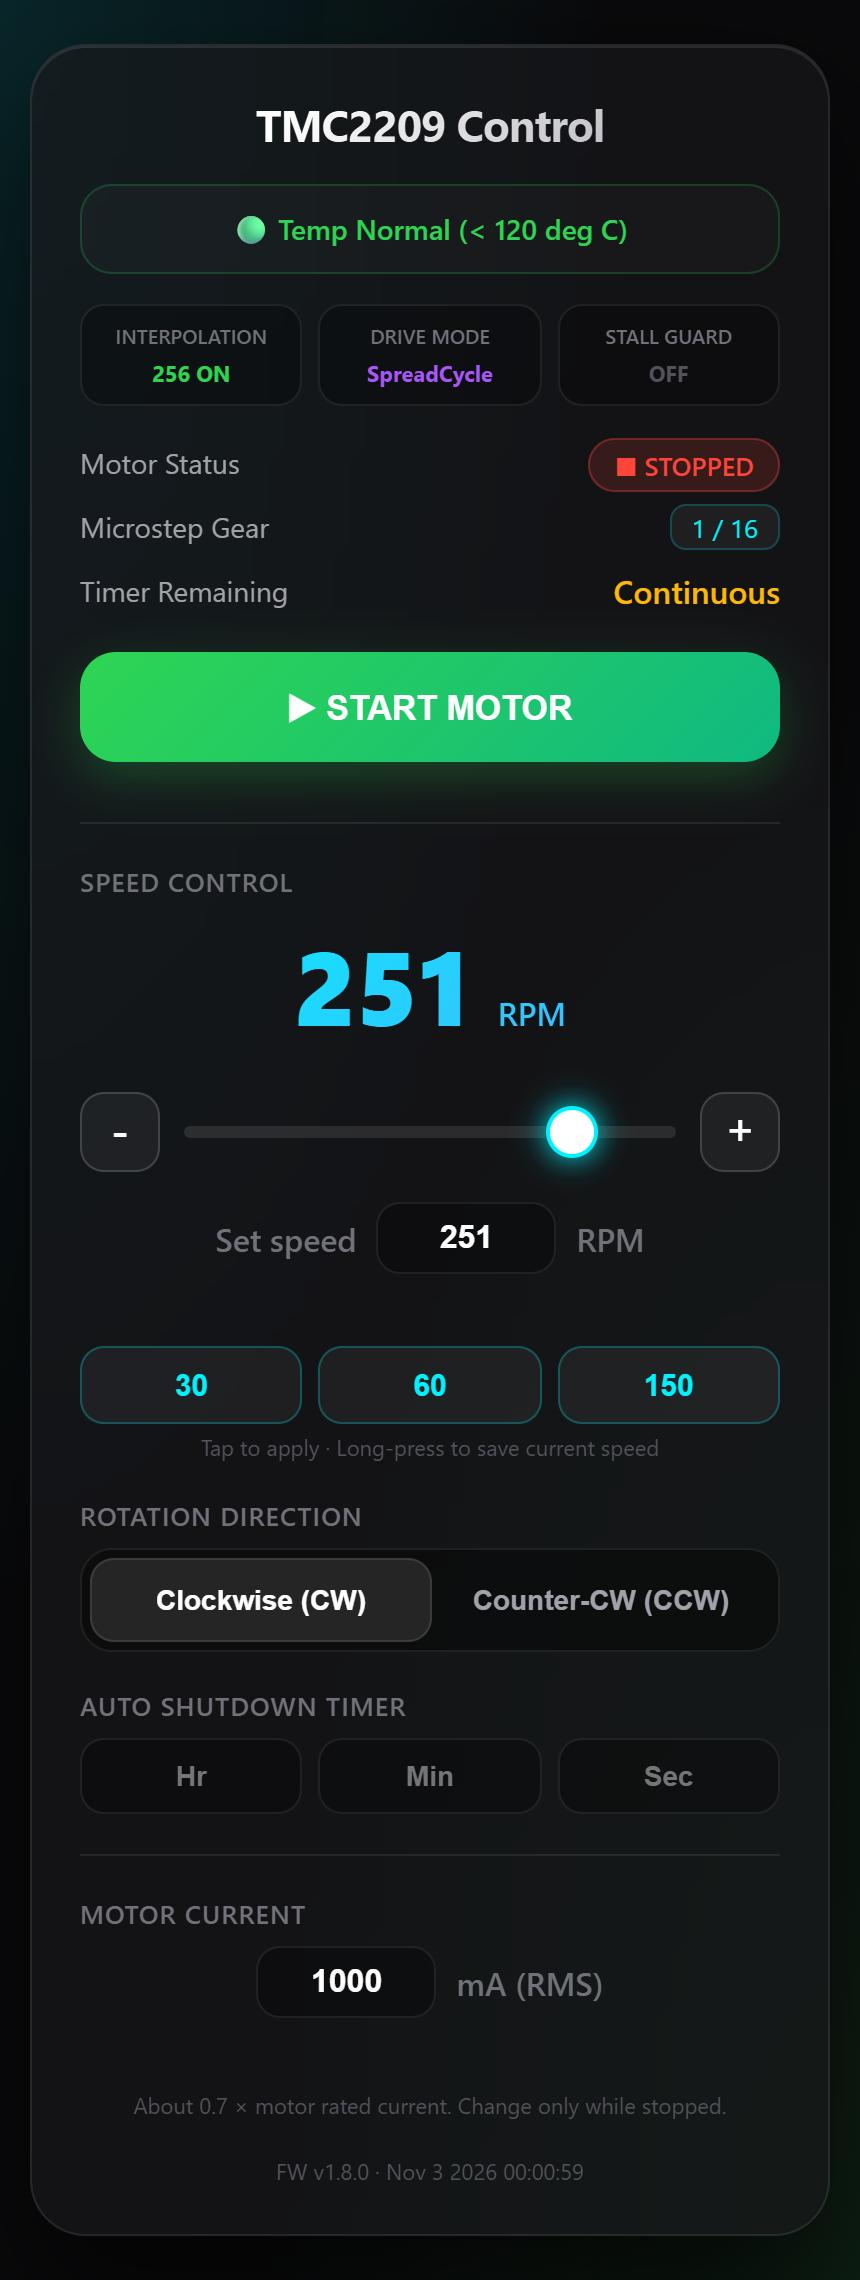
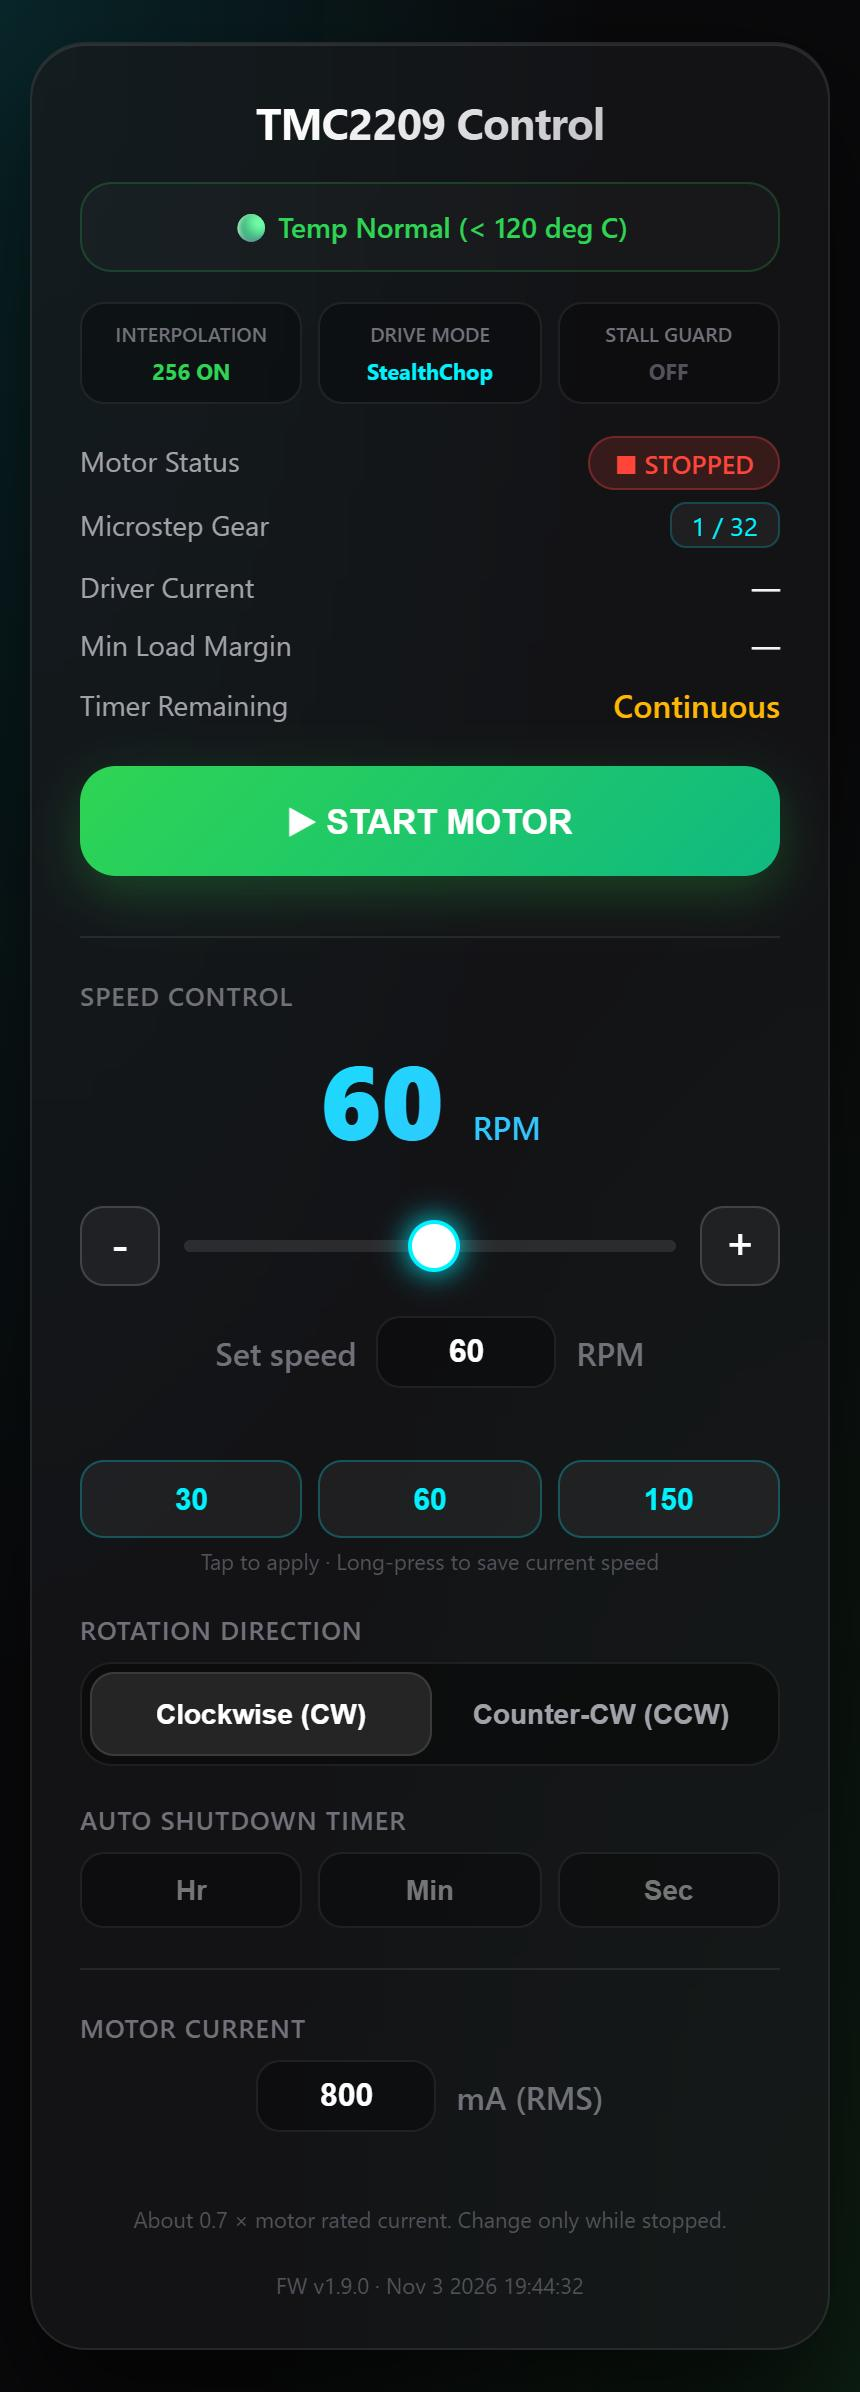
feat: show driver current and min load margin; fix stall detection when slipping
- Status rows "Driver Current" (CS_ACTUAL converted to mA, while running)
  and "Min Load Margin" (lowest sustained load % this run)
- Stall detection now trips when 3 of the last 6 samples (~0.3 s) fall
  below 35% of baseline. Holding the shaft makes the motor skip steps and
  the readings alternate low/high, so "3 in a row" could never trip
- Min Load Margin uses the same 3-of-6 rule, so single-sample spikes
  (occasional readings near 0) no longer drag it down
- Tested at 800 mA, 60 RPM: holding the shaft stops the motor within
  1-2 s. At 1000 mA readings only fell to ~40-57% and never tripped, so
  the UI now warns when the current is set above 800 mA
- Add /sg debug endpoint with the last 40 raw SG_RESULT samples
- README: document the new readings, stall rule and current advice;
  refresh screenshot
- Bump firmware to v1.9.0

diff --git a/index_html.h b/index_html.h
@@ -58,6 +58,7 @@ h2 {
 .diag-val { font-size: 11px; font-weight: 700; }
 .status-on { color: var(--accent-green); }
 .status-wait { color: #ffb703; }
+.live-val { font-size: 14px; font-weight: 600; color: #f4f4f5; }
 .status-alarm { color: var(--accent-red); }
 .wiring-alert { display: none; padding: 10px 12px; border-radius: 14px; font-size: 14px; font-weight: 600; text-align: center; margin-bottom: 12px; }
 .wiring-alert.warn { display: block; background: rgba(255,183,3,0.1); color: #ffb703; border: 1px solid rgba(255,183,3,0.45); }
@@ -140,7 +141,7 @@ document.addEventListener("DOMContentLoaded", function() {
   ['t_h', 't_m', 't_s'].forEach(function(k) {
     if (st[k] > 0) document.getElementById(k).value = st[k];
   });
-  if (st.ma > 0) document.getElementById('ma_input').value = st.ma;
+  if (st.ma > 0) { document.getElementById('ma_input').value = st.ma; showStallHint(st.ma); }
   if (Array.isArray(st.presets)) st.presets.forEach(function(v, i){ setPresetLabel(i, v); });
   // 用 ESP32 帶來的狀態先畫出按鈕，不必等第一次輪詢
   if (typeof st.run === 'boolean') { renderRunState(st.run); lastState = st.run; }
@@ -183,6 +184,11 @@ function presetUp(i) {
 
 function presetCancel() { clearTimeout(presetTimer); presetLongPressed = true; }
 
+// 實測：1000 mA 時馬達被卡住，負載讀值只降到約 40~57%，不會觸發卡住偵測；800 mA 時可在 1~2 秒內停機
+function showStallHint(ma) {
+  document.getElementById('ma_stall_hint').style.display = (ma > 800) ? 'block' : 'none';
+}
+
 function handleCurrentInput(el) {
   let errEl = document.getElementById('ma_err');
   let v = parseInt(el.value, 10);
@@ -193,7 +199,10 @@ function handleCurrentInput(el) {
   errEl.innerText = '';
   var x = new XMLHttpRequest();
   x.open('GET', '/api?ma=' + v, true);
-  x.onload = function(){ errEl.innerText = (x.status === 200) ? '' : x.responseText; };
+  x.onload = function(){
+    errEl.innerText = (x.status === 200) ? '' : x.responseText;
+    if (x.status === 200) showStallHint(v);
+  };
   x.send();
 }
 
@@ -339,6 +348,17 @@ function applyStatus(o) {
     }
     document.getElementById('stall_alert').style.display = (o.stall === 'stall') ? 'block' : 'none';
 
+    // 實際電流 (運轉中才有) 與本次運轉的最小負載餘裕：越接近 35% 代表越接近卡住門檻
+    document.getElementById('cur_disp').innerText = (o.running && o.cur_ma > 0) ? (o.cur_ma + ' mA') : '—';
+    var mEl = document.getElementById('margin_disp');
+    if (o.sg_min >= 0) {
+      mEl.innerText = o.sg_min + '%';
+      mEl.style.color = o.sg_min < 35 ? 'var(--accent-red)' : o.sg_min < 50 ? '#ffb703' : 'var(--accent-green)';
+    } else {
+      mEl.innerText = '—';
+      mEl.style.color = '';
+    }
+
     // 接線警告：1 = 疑似線圈開路 (黃)，2 = 短路 (紅，已停機)
     var wEl = document.getElementById('wiring_alert');
     wEl.innerText = o.wiring ? ((o.wiring_level === 2 ? '⛔ ' : '⚠ ') + o.wiring) : '';
@@ -378,6 +398,8 @@ function applyStatus(o) {
   
   <div class='row'><span style='color:#a1a1aa; font-size:14px;'>Motor Status</span><span id='status_box'></span></div>
   <div class='row'><span style='color:#a1a1aa; font-size:14px;'>Microstep Gear</span><span id='ms_disp' class='ms-badge'>1 / 16</span></div>
+  <div class='row'><span style='color:#a1a1aa; font-size:14px;'>Driver Current</span><span id='cur_disp' class='live-val'>&mdash;</span></div>
+  <div class='row'><span style='color:#a1a1aa; font-size:14px;'>Min Load Margin</span><span id='margin_disp' class='live-val'>&mdash;</span></div>
   <div class='row'><span style='color:#a1a1aa; font-size:14px;'>Timer Remaining</span><span id='t_disp' style='color:#ffb703; font-weight:600;'>Continuous</span></div>
 
   <div id='action_btn_area'></div>
@@ -433,6 +455,7 @@ function applyStatus(o) {
   </div>
   <div id='ma_err' class='rpm-input-err'></div>
   <div class='fw-ver' style='margin-top: 0;'>About 0.7 &times; motor rated current. Change only while stopped.</div>
+  <div id='ma_stall_hint' class='fw-ver' style='margin-top: 4px; color: #ffb703; display: none;'>Above 800 mA, stall detection may not trigger.</div>
 
   <div id='fw_ver' class='fw-ver'></div>
 </div>

diff --git a/README.md b/README.md
@@ -2,7 +2,7 @@
 
 基於 ESP32 與 TMC2209 步進馬達驅動器的深色現代化 Web 控制面板。支援動態微步與驅動模式切換、256 微步插值、卡住偵測、接線故障偵測、即時溫度監控與過熱保護、斷電記住設定、自動關機計時器以及 OTA 無線更新。
 
-<img width="380" alt="控制面板畫面 (FW v1.8.0)" src="docs/screenshot.jpg" />
+<img width="380" alt="控制面板畫面 (FW v1.9.0)" src="docs/screenshot.jpg" />
 
 ---
 
@@ -22,10 +22,13 @@
   跨越區間時，馬達會先減速停止、切換設定後再加速。模式只在停止時切換：高速運轉中由 SpreadCycle 切回 StealthChop 會讓馬達卡住並發出異音。界線刻意設在 160 RPM，避開常用的 150 RPM（可在程式中的 `SPREADCYCLE_RPM_THRESHOLD` 調整）。網頁顯示的是驅動器回報的實際模式。
 * **高階 TMC2209 優化**（透過 UART 設定）：
   * **Microplyer (256 插值)**：自動平滑化脈衝，降低運轉高頻噪音。
-  * **運轉電流**：可在網頁「Motor Current」設定 200 ~ 1200 mA (RMS)，預設 800 mA。只能在馬達停止時修改。換馬達時請設為馬達額定電流的約 0.7 倍，不確定時先設低再慢慢調高。
+  * **運轉電流**：可在網頁「Motor Current」設定 200 ~ 1200 mA (RMS)，預設 800 mA。只能在馬達停止時修改。換馬達時請設為馬達額定電流的約 0.7 倍，不確定時先設低再慢慢調高。運轉中狀態區的「Driver Current」顯示驅動器回報的實際電流，可用來確認設定已生效。
 * **斷電記住設定**：轉速、轉向、電流會存在 ESP32 的 Flash，重新通電後自動恢復。為避免影響運轉流暢度，只在馬達停止時寫入（運轉中調整的值會在按下 STOP 後儲存）。
 * **過熱安全保護**：每秒透過 UART 讀取晶片溫度旗標，溫度框依狀態變色（綠／黃／紅）。超過 150°C 或晶片過熱關斷時自動停止馬達並禁止啟動，降溫後自動解除。
-* **卡住偵測 (StallGuard4)**：在 30 ~ 160 RPM（StealthChop）之間，達到目標轉速後自動記錄正常負載作為基準；負載讀值掉到基準的 35% 以下並持續約 0.15 秒時，立即停止馬達並顯示紅色警告，按 START 即可重新啟動。網頁「Stall Guard」格顯示目前負載相對基準的百分比（越低越吃力）。低於 30 RPM 或高於 160 RPM 時偵測不準，因此不啟用。敏感度可調整程式中的 `STALL_RATIO`。
+* **卡住偵測 (StallGuard4)**：在 30 ~ 160 RPM（StealthChop）之間，達到目標轉速後自動記錄正常負載作為基準；最近 6 次取樣（約 0.3 秒）中有 3 次負載讀值低於基準的 35% 時，立即停止馬達並顯示紅色警告，按 START 即可重新啟動。採用「6 次中 3 次」而非「連續 3 次」，是因為馬達被卡住跳步時讀值會高低交錯；單次雜訊則不會誤判。
+  * 網頁「Stall Guard」格顯示目前負載相對基準的百分比（越低越吃力）；「Min Load Margin」顯示本次運轉中最吃力時的餘裕（與停機門檻同一標準，低於 35% 即停機）。
+  * ⚠ **電流建議 ≤ 800 mA**：實測 800 mA 時擰住軸心可在 1~2 秒內停機；1000 mA 時馬達掙扎力較大，讀值只降到約 40~57%，不會觸發。電流設定超過 800 mA 時網頁會顯示提醒。
+  * 低於 30 RPM 或高於 160 RPM 時偵測不準，因此不啟用。敏感度可調整程式中的 `STALL_RATIO`；除錯時可開啟 `/sg` 查看最近 2 秒的原始讀值。
 * **接線故障偵測**：每秒讀取驅動器的接線旗標。
   * **線圈短路**（對地或對電源）：立即停止馬達、禁止啟動，並顯示紅色警告。
   * **線圈斷線**（插頭鬆脫等）：顯示黃色警告。斷線旗標在高速與靜止時可能誤報，因此只在 StealthChop 區間等速運轉時判斷，且需連續 3 秒才警告，不會停機。
